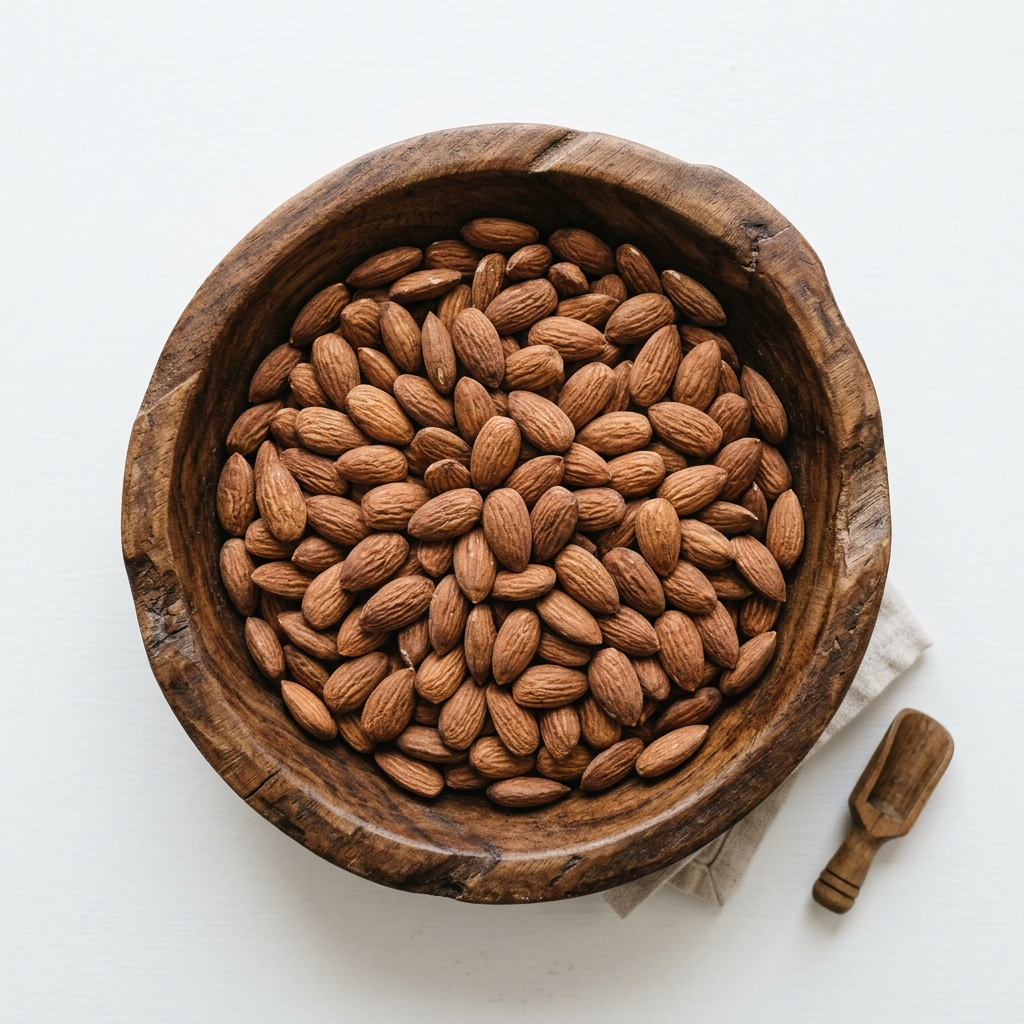
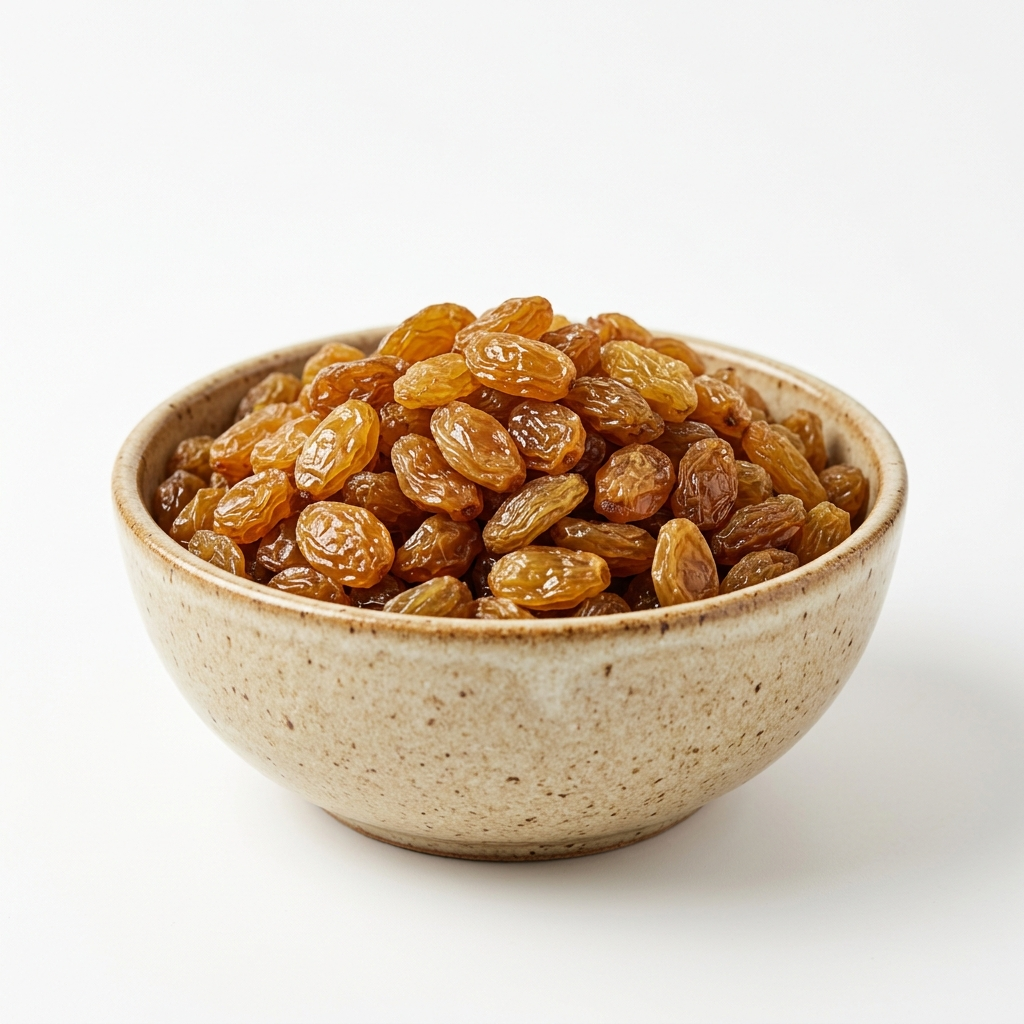
Replace fallback placeholder images with correct high-fidelity images for Raisins, Pistachios, and Chia Seeds

diff --git a/frontend/src/pages/Dashboard.jsx b/frontend/src/pages/Dashboard.jsx
@@ -37,6 +37,7 @@ import himalayanSaltImg from '../assets/himalayan_salt.png';
 import quinoaImg from '../assets/quinoa.png';
 import turmericImg from '../assets/turmeric.png';
 import pepperImg from '../assets/pepper.png';
+import pistachiosImg from '../assets/pistachios.png';
 
 const imageMap = {
   almonds: almondsImg,
@@ -64,11 +65,11 @@ const imageMap = {
   flax_seeds: flaxSeedsImg,
   sunflower_seeds: seedsImg,
   mix_nuts: heroNutsBowl,
-  pistachios_small: almondsImg,
+  pistachios_small: pistachiosImg,
   cashews_small: cashewsImg,
   almonds_small: almondsImg,
   walnuts_small: walnutsImg,
-  pistachios: almondsImg
+  pistachios: pistachiosImg
 };
 
 const VipMembershipPage = ({ onClose }) => {

diff --git a/frontend/src/pages/Storefront.jsx b/frontend/src/pages/Storefront.jsx
@@ -35,6 +35,7 @@ import himalayanSaltImg from '../assets/himalayan_salt.png';
 import quinoaImg from '../assets/quinoa.png';
 import turmericImg from '../assets/turmeric.png';
 import pepperImg from '../assets/pepper.png';
+import pistachiosImg from '../assets/pistachios.png';
 
 // Maps image names to imported files
 const imageMap = {
@@ -64,11 +65,11 @@ const imageMap = {
   flax_seeds: flaxSeedsImg,
   sunflower_seeds: seedsImg,
   mix_nuts: heroNutsBowl,
-  pistachios_small: almondsImg,
+  pistachios_small: pistachiosImg,
   cashews_small: cashewsImg,
   almonds_small: almondsImg,
   walnuts_small: walnutsImg,
-  pistachios: almondsImg
+  pistachios: pistachiosImg
 };
 const slides = [
   {
